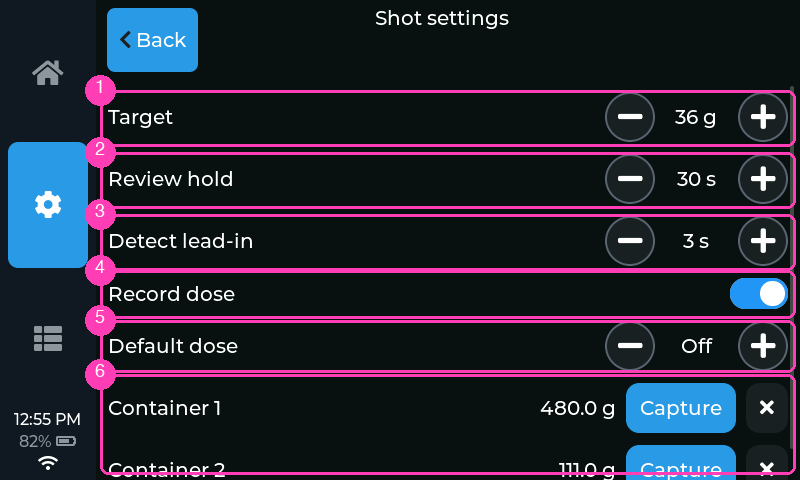
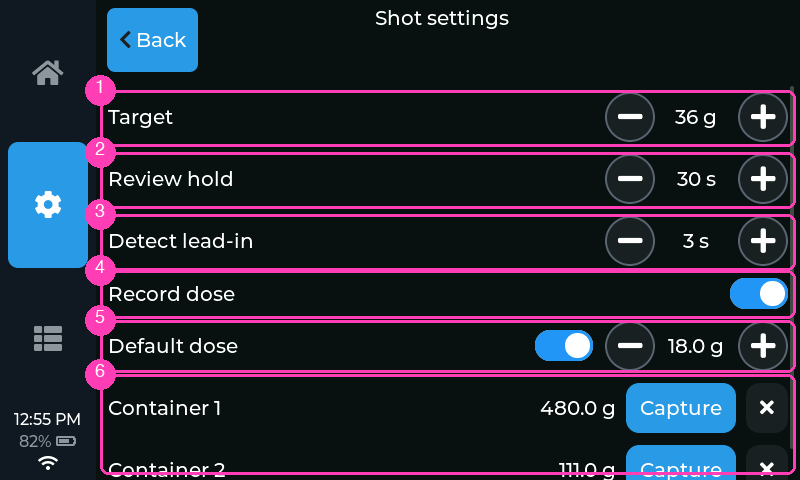
dose: Record dose is opt-in (off by default); Default dose is its own switch + value, no "Off" notch (owner)
Two independent switches under Shot settings. Record dose = the feature
(Record offers, the chip, the ratio), off until turned on — a fresh
unit shows none of it. Default dose = a switch with its value controls
(5..30 g by 0.5, 18.0 g the first time) that exist only while it is on,
in Settings and on the bench card alike; off, every dose is weighed.
The owner's objection (P4-5 on beta.1): the card showed "- Off +" by
default — a stepper whose bottom notch is a different mode.

NVS: `dosen` default flips to false (a unit that never toggled it sees
the feature off — beta.1 units are the owner's; turn it on once).
`dosedef` keeps its beta.1 meaning (0 / absent = off, else grams in
force) so a rollback reads it right; ADDED `dosedeflast` remembers the
value the switch restores. Hiding the stepper hides its GROUP (the
value stack is fixed-width; hiding the three controls left the switch
floating left of the Record dose one). The manual's "Recording your
dose" section is reshaped around the two switches (what it is, weighing,
containers, when a dose clears, the default, History); the Shot settings
image shows the switch on; README names the switch.

Changed region(s): [[0.6562, 0.6875, 0.75, 0.75], [0.8438, 0.6875, 0.9062, 0.75]]

diff --git a/src/ui/app.cpp b/src/ui/app.cpp
@@ -155,6 +155,11 @@ void on_dose_block_clicked(lv_event_t* e) {
 void on_dose_chip_clicked(lv_event_t* e) {
   static_cast<ui::App*>(lv_event_get_user_data(e))->clear_dose();
 }
+void on_dose_def_switch(lv_event_t* e) {
+  static_cast<ui::App*>(lv_event_get_user_data(e))
+      ->set_default_dose_enabled(lv_obj_has_state(static_cast<lv_obj_t*>(lv_event_get_target(e)),
+                                                  LV_STATE_CHECKED));
+}
 void on_dose_def_minus(lv_event_t* e) {
   static_cast<ui::App*>(lv_event_get_user_data(e))->default_dose_adjust(-1);
 }
@@ -1439,6 +1444,7 @@ void App::build(core::IMachine& machine, core::IProvisioner& provisioner,
   if (settings_.dose_switch != nullptr) {
     lv_obj_add_event_cb(settings_.dose_switch, on_dose_switch, LV_EVENT_VALUE_CHANGED, this);
     if (settings_.dose_def_minus != nullptr) {
+      lv_obj_add_event_cb(settings_.dose_def_switch, on_dose_def_switch, LV_EVENT_VALUE_CHANGED, this);
       lv_obj_add_event_cb(settings_.dose_def_minus, on_dose_def_minus, LV_EVENT_CLICKED, this);
       lv_obj_add_event_cb(settings_.dose_def_plus, on_dose_def_plus, LV_EVENT_CLICKED, this);
     }
@@ -5509,9 +5515,23 @@ void App::set_dose_enabled(bool on) {
 void App::default_dose_adjust(int dir) {
   if (dose_settings_ == nullptr) return;
   float g = dose_settings_->config().default_dose;
-  if (dir > 0) g = g <= 0.0f ? core::kDefaultDoseMinG : g + 0.5f;
-  else g = g <= core::kDefaultDoseMinG ? 0.0f : g - 0.5f;
+  if (g <= 0.0f) return;  // the switch is off: no value to dial
+  g += dir > 0 ? 0.5f : -0.5f;
+  if (g < core::kDefaultDoseMinG) g = core::kDefaultDoseMinG;
   if (g > core::kDefaultDoseMaxG) g = core::kDefaultDoseMaxG;
+  dose_settings_->set_default_dose(g);
+  dose_.set_default_dose(g);
+  sync_dose_settings_rows();
+  dose_tick(machine_ != nullptr ? machine_->snapshot() : core::MachineSnapshot{});
+}
+
+// The Default dose switch: on restores the last value (18 g the first time),
+// off clears it — the value controls come and go with it.
+void App::set_default_dose_enabled(bool on) {
+  if (dose_settings_ == nullptr) return;
+  const core::DoseConfig dc = dose_settings_->config();
+  float g = 0.0f;
+  if (on) g = dc.default_dose_last > 0.0f ? dc.default_dose_last : core::kDefaultDoseInitialG;
   dose_settings_->set_default_dose(g);
   dose_.set_default_dose(g);
   sync_dose_settings_rows();
@@ -5580,11 +5600,12 @@ void App::sync_dose_settings_rows() {
   // The bench card's stepper first: it exists without the Settings rows
   // (the tab is built after Home) and reads the same setting.
   if (home_.bench_dose_group != nullptr) {
-    const bool show = dose_record_active();
+    // Only with a default dose in force: the switch off means no value to
+    // dial, and the card shows nothing of it.
+    const float g = dose_record_active() ? dose_settings_->config().default_dose : 0.0f;
+    const bool show = g > 0.0f;
     char b[16];
-    const float g = show ? dose_settings_->config().default_dose : 0.0f;
-    if (g > 0.0f) std::snprintf(b, sizeof(b), "%.1f g", static_cast<double>(g));
-    else std::snprintf(b, sizeof(b), "Off");
+    std::snprintf(b, sizeof(b), "%.1f g", static_cast<double>(g));
     lv_label_set_text(home_.bench_dose_value, b);
     // Beside the graph the stepper and the caption share one line: the
     // caption only while a dose is offered / recorded.
@@ -5616,10 +5637,17 @@ void App::sync_dose_settings_rows() {
   else lv_obj_remove_state(settings_.dose_switch, LV_STATE_CHECKED);
   const core::DoseConfig dc = dose_settings_->config();
   if (settings_.dose_def_row != nullptr) {
+    const bool on = dc.default_dose > 0.0f;
     char b[16];
-    if (dc.default_dose > 0.0f) std::snprintf(b, sizeof(b), "%.1f g", static_cast<double>(dc.default_dose));
-    else std::snprintf(b, sizeof(b), "Off");
+    std::snprintf(b, sizeof(b), "%.1f g", static_cast<double>(on ? dc.default_dose : dc.default_dose_last));
     lv_label_set_text(settings_.dose_def_value, b);
+    if (on) lv_obj_add_state(settings_.dose_def_switch, LV_STATE_CHECKED);
+    else lv_obj_remove_state(settings_.dose_def_switch, LV_STATE_CHECKED);
+    // The stepper's own group (its value stack is fixed-width, so hiding the
+    // three controls alone would leave the switch floating left).
+    lv_obj_t* stepper = lv_obj_get_parent(settings_.dose_def_minus);
+    if (on) lv_obj_remove_flag(stepper, LV_OBJ_FLAG_HIDDEN);
+    else lv_obj_add_flag(stepper, LV_OBJ_FLAG_HIDDEN);
     if (show && dose_enabled_) lv_obj_remove_flag(settings_.dose_def_row, LV_OBJ_FLAG_HIDDEN);
     else lv_obj_add_flag(settings_.dose_def_row, LV_OBJ_FLAG_HIDDEN);
   }

diff --git a/src/platform_esp32/config.cpp b/src/platform_esp32/config.cpp
@@ -91,6 +91,7 @@ constexpr char kDoseEnabledKey[] = "dosen";      // Record dose from the bench s
 constexpr const char* kDoseContainerKeys[] = {"dosec0", "dosec1"};  // grams (ADD, v1.3; a dosec2 from the
                                                                        // 3-slot beta is left unread)
 constexpr char kDefaultDoseKey[] = "dosedef";                            // grams, 0 = off (ADD, v1.3)
+constexpr char kDefaultDoseLastKey[] = "dosedeflast";                    // the value the switch restores (ADD, v1.3)
 constexpr char kTargetKey[] = "tgtg";
 constexpr char kShotModeKey[] = "shotmode";  // LEGACY bool (armed) — migration only
 constexpr char kShotMode3Key[] = "shotmd";   // tri-state core::ShotMode as int
@@ -370,18 +371,32 @@ float Config::default_dose() const {
   return v > 0.0f && v <= 100.0f ? v : 0.0f;  // garbage reads as off
 }
 
+float Config::default_dose_last() const {
+  Preferences p;
+  if (!p.begin(kNamespace, /*readOnly=*/true)) return 0.0f;
+  const float v = p.isKey(kDefaultDoseLastKey) ? p.getFloat(kDefaultDoseLastKey, 0.0f) : 0.0f;
+  p.end();
+  return v > 0.0f && v <= 100.0f ? v : 0.0f;
+}
+
+// dosedef keeps its v1.3.0-beta.1 meaning (0 / absent = off, else the grams
+// in force); the switch's memory is the ADDED dosedeflast.
 void Config::set_default_dose(float grams) {
   Preferences p;
   p.begin(kNamespace, /*readOnly=*/false);
-  if (grams > 0.0f) p.putFloat(kDefaultDoseKey, grams);
-  else p.remove(kDefaultDoseKey);
+  if (grams > 0.0f) {
+    p.putFloat(kDefaultDoseKey, grams);
+    p.putFloat(kDefaultDoseLastKey, grams);
+  } else {
+    p.remove(kDefaultDoseKey);
+  }
   p.end();
 }
 
 bool Config::dose_enabled() const {
   Preferences p;
-  if (!p.begin(kNamespace, /*readOnly=*/true)) return true;
-  const bool v = p.isKey(kDoseEnabledKey) ? p.getBool(kDoseEnabledKey, true) : true;
+  if (!p.begin(kNamespace, /*readOnly=*/true)) return false;
+  const bool v = p.isKey(kDoseEnabledKey) ? p.getBool(kDoseEnabledKey, false) : false;
   p.end();
   return v;
 }

diff --git a/src/ui/settings_tab.cpp b/src/ui/settings_tab.cpp
@@ -1256,11 +1256,14 @@ void build_settings_tab(lv_obj_t* parent, const ScreenProfile& screen,
     out.dose_switch_row = rd;
     out.dose_switch = lv_switch_create(rd);
     lv_obj_set_size(out.dose_switch, btn_size + ui::dp(8), btn_size / 2 + ui::dp(6));
-    // A default dose (opt-in, Off by default): staged for every shot when
-    // nothing was recorded — for a constant daily dose, or no bench scale.
+    // A default dose (its own switch, off by default): staged for every
+    // shot when nothing was recorded — for a constant daily dose, or no
+    // bench scale. The value controls exist only while the switch is on
+    // (owner, 2026-11-02: no "Off" notch at the bottom of a stepper).
     out.dose_def_row = make_setting_row(out.scale_settings_page, "Default dose", font);
-    make_inline_stepper(out.dose_def_row, font, symbol_font, btn_size, &out.dose_def_minus,
-                        &out.dose_def_value, &out.dose_def_plus, nullptr);
+    make_switch_stepper(out.dose_def_row, font, symbol_font, btn_size, compact,
+                        &out.dose_def_switch, &out.dose_def_minus, &out.dose_def_value,
+                        &out.dose_def_plus);
     for (int i = 0; i < core::kMaxDoseContainers; ++i) {
       char title[16];
       std::snprintf(title, sizeof(title), "Container %d", i + 1);

diff --git a/include/core/dose_settings.h b/include/core/dose_settings.h
@@ -10,12 +10,14 @@
 namespace core {
 
 struct DoseConfig {
-  bool enabled = true;  // the whole feature: Record block, chip, ratio
+  bool enabled = false;  // the whole feature: Record block, chip, ratio (opt-in)
   float containers[kMaxDoseContainers] = {};  // grams; 0 = slot empty
-  float default_dose = 0.0f;  // grams; 0 = off (opt-in)
+  float default_dose = 0.0f;       // grams; 0 = the Default dose switch is off
+  float default_dose_last = 0.0f;  // the value the switch restores (0 = never set)
 };
 constexpr float kDefaultDoseMinG = 5.0f;   // the stepper's range, 0.5 g steps
 constexpr float kDefaultDoseMaxG = 30.0f;
+constexpr float kDefaultDoseInitialG = 18.0f;  // the first value the switch starts at
 
 class IDoseSettings {
  public:
@@ -23,7 +25,7 @@ class IDoseSettings {
   virtual DoseConfig config() const = 0;
   virtual void set_enabled(bool on) = 0;
   virtual void set_container(int index, float grams) = 0;  // 0 clears the slot
-  virtual void set_default_dose(float grams) = 0;         // 0 = off
+  virtual void set_default_dose(float grams) = 0;         // 0 = off; a value is remembered as default_dose_last
 };
 
 }  // namespace core

diff --git a/include/ui/app.h b/include/ui/app.h
@@ -217,7 +217,8 @@ class App {
   void record_dose();       // the bench card's Record block
   void refit_bench_outline();  // re-fit the Record outline to its labels
   void clear_dose();        // the chip's x
-  void default_dose_adjust(int dir);  // the Default dose stepper: Off, 5..30 g by 0.5
+  void default_dose_adjust(int dir);  // the Default dose stepper: 5..30 g by 0.5
+  void set_default_dose_enabled(bool on);  // its switch: on = the last value (18 g at first)
   void set_dose_enabled(bool on);
   void capture_dose_container(int index);  // Settings: store the bench reading (arms if moving)
   void clear_dose_container(int index);
@@ -525,7 +526,7 @@ class App {
   core::ScheduleEngine schedule_engine_;
   core::IDoseSettings* dose_settings_ = nullptr;
   core::DoseTracker dose_;
-  bool dose_enabled_ = true;
+  bool dose_enabled_ = false;
   float shot_dose_g_ = 0.0f;  // the dose the running / reviewed shot spent
   core::DoseSource shot_dose_src_ = core::DoseSource::kNone;  // ... and where it came from
   float review_out_g_ = 0.0f; // the settled yield, latched at the freeze (0 = not yet)

diff --git a/include/platform_esp32/config.h b/include/platform_esp32/config.h
@@ -69,11 +69,12 @@ class Config {
   void set_bench_home_style(int style);
   // Dose from the bench scale (v1.3): the Record switch and up to three
   // stored container weights (0 = empty slot).
-  bool dose_enabled() const;           // default true
+  bool dose_enabled() const;           // default false (opt-in)
   void set_dose_enabled(bool on);
   float dose_container(int index) const;
   void set_dose_container(int index, float grams);
-  float default_dose() const;  // grams, 0 = off (default)
+  float default_dose() const;       // grams, 0 = off (default)
+  float default_dose_last() const;  // the last value set, for the switch to restore
   void set_default_dose(float grams);
 
   // Brew-by-weight target (grams) — persisted so it survives reboots.

diff --git a/include/platform_host/fake_dose_settings.h b/include/platform_host/fake_dose_settings.h
@@ -10,6 +10,7 @@ namespace host {
 class FakeDoseSettings : public core::IDoseSettings {
  public:
   FakeDoseSettings() {
+    cfg_.enabled = true;  // the renders show the feature (it ships off)
     cfg_.containers[0] = 480.0f;
     cfg_.containers[1] = 111.0f;
   }
@@ -18,7 +19,10 @@ class FakeDoseSettings : public core::IDoseSettings {
   void set_container(int index, float grams) override {
     if (index >= 0 && index < core::kMaxDoseContainers) cfg_.containers[index] = grams;
   }
-  void set_default_dose(float grams) override { cfg_.default_dose = grams; }
+  void set_default_dose(float grams) override {
+    cfg_.default_dose = grams;
+    if (grams > 0.0f) cfg_.default_dose_last = grams;
+  }
 
  private:
   core::DoseConfig cfg_;

diff --git a/src/sim/main.cpp b/src/sim/main.cpp
@@ -389,7 +389,8 @@ int main() {
           false, -1, 0, false, false, 0, false, false, false, false, 0, -1, false, -1, 0, 4);
   disp.set_bench_home_style(0);
   brew.set_phase(core::ShotPhase::kIdle);
-  ok &= r({800, 480}, "renders/scale_shot_dose_800x480.png", 1, ui::kSectionScaleSettings);
+  ok &= r({800, 480}, "renders/scale_shot_dose_800x480.png", 1, ui::kSectionScaleSettings, false,
+          0, -1, false, -1, 0, false, false, 0, false, false, false, false, 0, -1, false, -1, 0, 5);
   // The default dose with NO bench scale: the chip says "set", the settings
   // page shows the switch + Default dose only (no Capture / containers).
   scale_provisioner.set_bench_saved(false);

diff --git a/include/ui/settings_tab.h b/include/ui/settings_tab.h
@@ -186,7 +186,8 @@ struct SettingsWidgets {
   // (value, Capture from the bench scale, Clear).
   lv_obj_t* dose_switch_row = nullptr;
   lv_obj_t* dose_switch = nullptr;
-  lv_obj_t* dose_def_row = nullptr;      // "Default dose" stepper: Off, 5..30 g
+  lv_obj_t* dose_def_row = nullptr;      // "Default dose": [switch] - 18.0 g +
+  lv_obj_t* dose_def_switch = nullptr;   //   the value controls exist only while on
   lv_obj_t* dose_def_minus = nullptr;
   lv_obj_t* dose_def_value = nullptr;
   lv_obj_t* dose_def_plus = nullptr;

diff --git a/src/platform_esp32/dose_settings.cpp b/src/platform_esp32/dose_settings.cpp
@@ -9,6 +9,7 @@ core::DoseConfig DoseSettings::config() const {
   c.enabled = config_.dose_enabled();
   for (int i = 0; i < core::kMaxDoseContainers; ++i) c.containers[i] = config_.dose_container(i);
   c.default_dose = config_.default_dose();
+  c.default_dose_last = config_.default_dose_last();
   return c;
 }
 

diff --git a/MANUAL.md b/MANUAL.md
@@ -233,50 +233,57 @@ itself, and the graph shows it in grams.
 
 ![Dose recorded — the block on the bench card and the chip in the graph](docs/img/manual/home-dose-recorded.png)
 
-Put the dosed portafilter (or your dosing cup, or beans in a tared cup) on
-the bench scale. Once the reading has held still for a second and is
-dose‑sized, the weight and its caption gain an amber outline and the caption
-reads **Record 18.3 g** — the dose Apollo would store ①. Tap the block to
-record it; the caption turns to **✓ 18.3 g recorded** until you lift the
-portafilter, and a chip appears above the graph's legend ② with the dose:
-**18.3 g in**.
-That dose belongs to the **next shot you start**: when the shot begins the
-chip adds a placeholder for the yield (**--.- g out**), fills it in live as
-the shot runs with the ratio growing beside it, and freezes with the graph
-for review (**36.4 g out · 1:2.0**). Both are kept in History (a **Ratio**
-column on the shot's card and the web page).
+Apollo can keep the **dose** (grams in) with each shot and show the **brew
+ratio** (in : out) in the graph and in History. It is off until you turn it
+on, and it has two independent switches under **Settings → Scale → Shot
+settings**:
 
-- Nothing is subtracted for a tared cup. For a portafilter or a dosing cup
-  that is *not* tared, store its weight once under **Settings → Scale → Shot
+- **Record dose** — the feature itself. Off (the default), none of this
+  exists: no Record offers on the bench card, no dose chip in the graph,
+  no ratio in History. On, Apollo offers to record a dose whenever one is
+  weighed on the bench scale, and shows the ratio for a shot that has one.
+  It needs an espresso scale paired, since the ratio needs the shot's yield.
+- **Default dose** — optional, and off by default too. On, a dose you set
+  once (18.0 g to start, 5–30 g) is used for every shot you *don't* weigh,
+  so a constant daily dose needs no weighing at all — and the ratio works
+  even with no bench scale. Off, the only doses are the ones you weigh.
+
+**Weighing a dose.** Put the dosed portafilter (or your dosing cup, or beans
+in a tared cup) on the bench scale. Once the reading has held still for a
+second and is dose‑sized, the weight and its caption gain an amber outline
+and the caption reads **Record 18.3 g** — the dose Apollo would store ①. Tap
+it to record; the caption turns to **✓ 18.3 g recorded** until you lift the
+portafilter, and a chip appears above the graph's legend ② with the dose:
+**18.3 g in**. That dose belongs to the **next shot you start**: when the
+shot begins the chip adds a placeholder for the yield (**--.- g out**), fills
+it in live as the shot runs with the ratio growing beside it, and freezes
+with the graph for review (**36.4 g out · 1:2.0**).
+
+- **Containers.** Nothing is subtracted for a tared cup. For a portafilter
+  or a dosing cup that is *not* tared, store its weight once under **Shot
   settings → Container** and Apollo subtracts it by itself: the reading is
   matched to the heaviest stored container lighter than it, so a 498 g
   reading with a 480 g portafilter stored records 18 g. Apollo measures the
   *step* the load made on the scale (from whatever it read before), so you
   don't have to tare first — a spoon already on the scale, or a cup you
-  tared earlier, makes no difference. The block only appears for a step
-  whose dose would be 5–30 g — a milk jug never offers Record.
-- Recording again replaces the pending dose; the **×** on the chip clears
-  it. A dose nobody pulls a shot with also clears itself when you've
-  evidently walked away: the screensaver starting, a scale going to sleep
-  (a link that drops and stays down half a minute), the Micra going to
-  standby, or an hour passing.
-- **A default dose** (Settings → Scale → Shot settings → Default dose, off
-  unless you set it) is for a constant daily dose, or for using the ratio
-  with no bench scale at all. The BENCH card carries the same **− / +**
-  under its weight — on the swap card in the row the other cards' steppers
-  use, beside the graph in the scale name's place (a Record offer takes
-  that line back while it shows) — so the dose can be dialled without
-  leaving Home. It is staged for every shot: the chip shows
-  it as **18.0 g set**, and a dose you record overrides it for that one
-  shot. The **×** on a staged default skips it for the next shot only; it
-  is staged again after that shot, or when you've walked away as above.
-  History keeps which kind each shot had: a recorded dose reads
-  **18.2 g in** on the shot's card, a default **18.0 g default**, so a
-  ratio can be told apart as measured or assumed.
-- The whole feature can be switched off under **Settings → Scale → Shot
-  settings → Record dose**; it needs an espresso scale paired, since the
-  ratio needs the shot's yield. Recording a dose needs the bench scale as
-  well; the default dose does not.
+  tared earlier, makes no difference. Record is only offered for a step
+  whose dose would be 5–30 g — a milk jug never offers it.
+- **A dose clears** when you record again (the new one replaces it), when
+  you tap the **×** on the chip, or when you've evidently walked away: the
+  screensaver starting, a scale going to sleep (a link that drops and stays
+  down half a minute), the Micra going to standby, or an hour passing.
+- **The default dose** is staged for every shot: the chip shows it as
+  **18.0 g set**, and a dose you weigh overrides it for that one shot. The
+  **×** on a staged default skips it for the next shot only; it is staged
+  again after that shot, or when you've walked away as above. While the
+  switch is on, the BENCH card carries a **− / +** for the value — on the
+  swap card in the row the other cards' steppers use, beside the graph in
+  the scale name's place (a Record offer takes that line back while it
+  shows) — so it can be dialled without leaving Home. Switch it off and
+  those controls go with it.
+- **History** keeps which kind each shot had: a weighed dose reads
+  **18.2 g in** on the shot's card, a default **18.0 g default**, so a ratio
+  can be told apart as measured or assumed. The web page shows the same.
 
 ### Flow graph
 
@@ -582,12 +589,14 @@ which is a weight readout with its own Tare (see the BENCH card above).
   started the shot. Adjust it to match your machine's preinfusion setting as
   needed (roughly your typical paddle‑to‑first‑drip time); 0 starts the shot
   at the first drip.
-- ④ **Record dose** *(on by default; needs an espresso scale)* — the dose
+- ④ **Record dose** *(off by default; needs an espresso scale)* — the dose
   chip in the graph, the ratio, and with a bench scale the Record block on
-  the bench card (see *Recording your dose* under the BENCH card). Off hides
-  all of it and records nothing.
-- ⑤ **Default dose** *(Off, or 5–30 g in 0.5 g steps)* — a dose staged for
-  every shot when none was recorded; see *Recording your dose*.
+  the bench card (see *Recording your dose* under the BENCH card). Off, none
+  of it shows and nothing is recorded.
+- ⑤ **Default dose** *(switch, off by default; on: 5–30 g in 0.5 g steps,
+  18.0 g at first)* — a dose staged for every shot when none was recorded;
+  see *Recording your dose*. Off hides the value controls here and on the
+  bench card.
 - ⑥ **Container 1–2** *(bench scale only)* — the weights Apollo subtracts from a bench reading
   before recording a dose: a portafilter, a dosing cup. Put the empty
   container on the bench scale and tap **Capture**; **×** forgets it. A

diff --git a/CHANGELOG.md b/CHANGELOG.md
@@ -13,7 +13,7 @@ the headings as plain lines); leave out a list that would be empty.
 
 ### Features
 
-- **Record your dose, see the ratio.** Put the dosed portafilter (or a dosing cup) on the bench scale: the weight becomes a Record button that stores the dose for the next shot, no tare needed. A chip above the graph's legend shows `18.2 g in`, then the yield and the brew ratio live, and freezes with the graph. A **Default dose** setting stages a constant dose for every shot, with or without a bench scale — dialled in Settings or with − / + on the BENCH card. History and the web page keep the dose, whether it was weighed or the default, and the ratio.
+- **Record your dose, see the ratio.** Put the dosed portafilter (or a dosing cup) on the bench scale: the weight becomes a Record button that stores the dose for the next shot, no tare needed. A chip above the graph's legend shows `18.2 g in`, then the yield and the brew ratio live, and freezes with the graph. Both are opt-in: **Record dose** turns the feature on, and a separate **Default dose** switch stages a constant dose for every shot, with or without a bench scale — dialled in Settings or with − / + on the BENCH card. History and the web page keep the dose, whether it was weighed or the default, and the ratio.
 - **Live readings in the graph legend.** The legend shows the espresso scale's current flow rate (or weight) and the bench scale's grams, not just the units.
 - **Detailed log switch.** Settings > Apollo > Display > Detailed log keeps the minute-by-minute housekeeping in the diagnostic log (and gives it a two-day buffer); off, the log holds events only and lasts weeks. The log now records why a Bluetooth link ended and the parameters each link uses.
 - **Auto-standby counts inactivity.** A flush or a backflush now restarts the auto-standby count like a shot does, and neither auto-standby nor a scheduled Off fires in the middle of one. The row is now "Auto-standby when idle".
